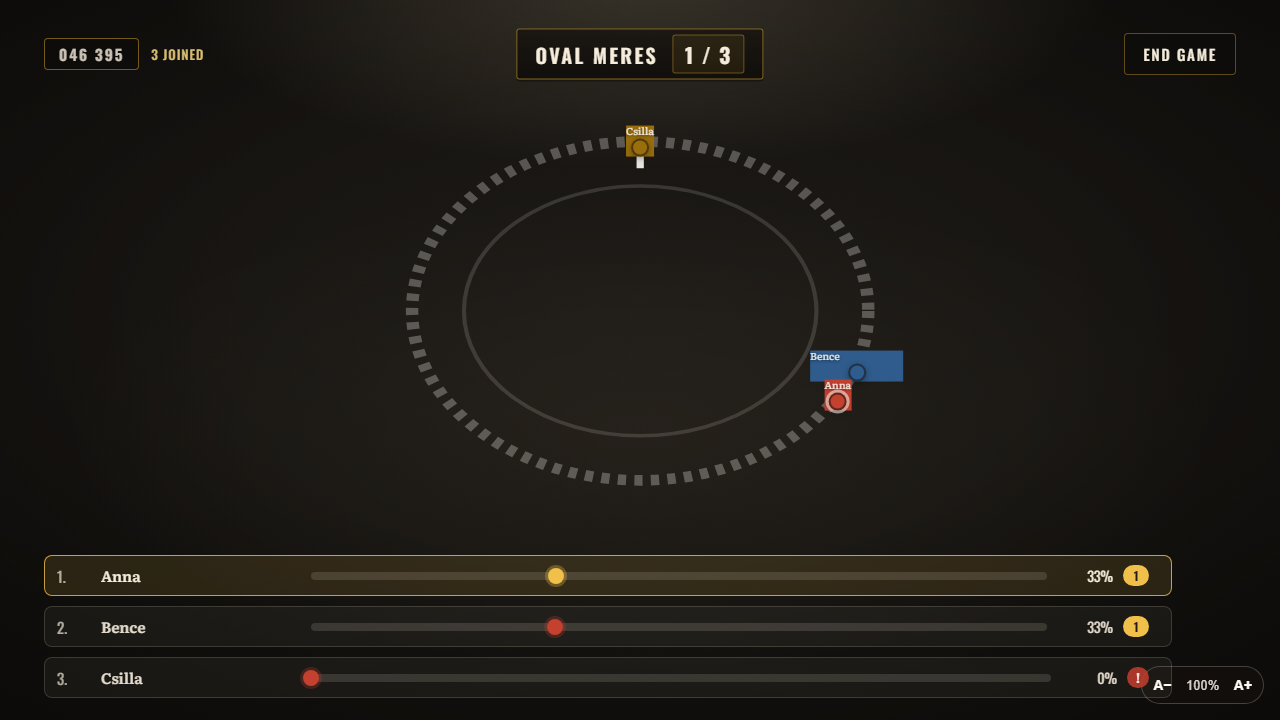
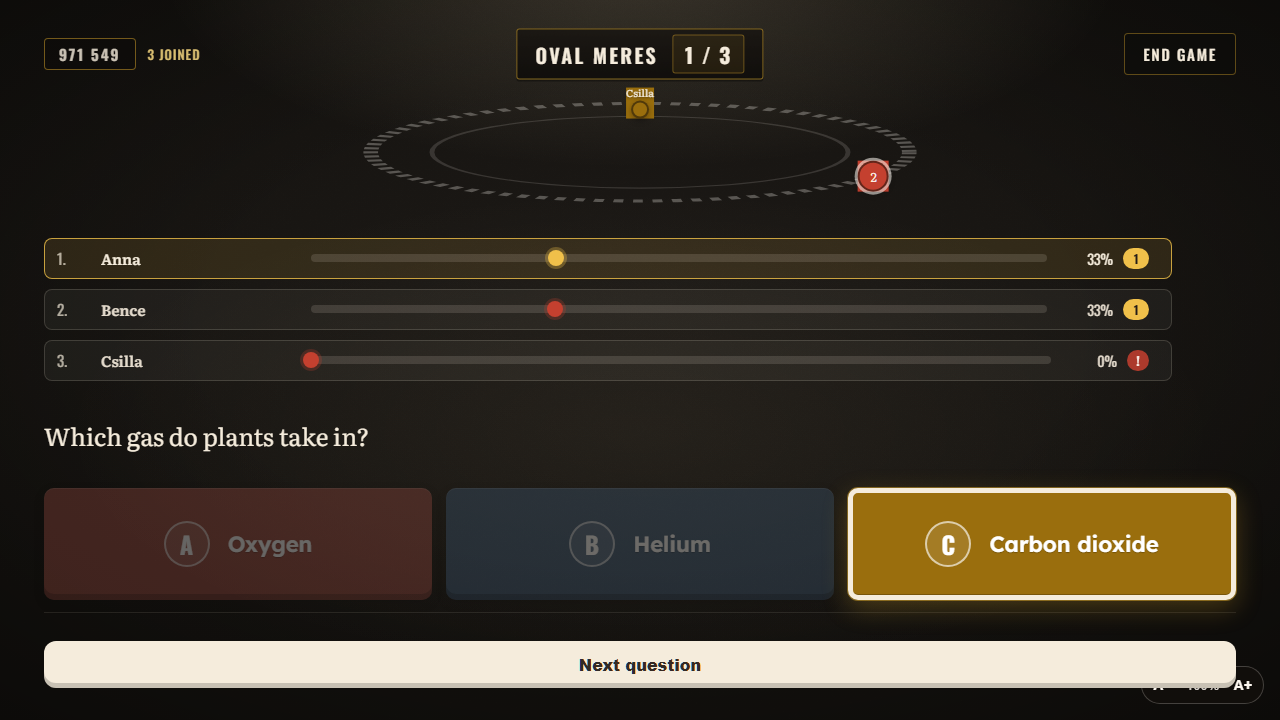
feat(race): lapos oval, csoportjelveny letszammal, dobogo es holtverseny a Grand Prix vegen (#tp43)

diff --git a/scripts/probe-oval.e2e.ts b/scripts/probe-oval.e2e.ts
@@ -101,34 +101,61 @@ test('a pálya képe három futóval', async ({ page, browser }) => {
 
   await page.screenshot({ path: 'race-oval.png' })
 
-  // Mérés: a pöttyök és a nevek nem csúszhatnak egymásra.
+  // Mérés: a jelvények nem csúszhatnak egymásra; a pálya nem túl magas.
   const boxes = await stage.locator('.gq-runner').evaluateAll((nodes) =>
     nodes.map((node) => {
       const dot = node.querySelector('.gq-runner-dot')!.getBoundingClientRect()
-      const name = node.querySelector('.gq-runner-name')!.getBoundingClientRect()
+      const name = node.querySelector('.gq-runner-name')
+      const label = name ? name.getBoundingClientRect() : dot
       return {
-        name: (node.querySelector('.gq-runner-name')?.textContent ?? '').trim(),
+        name: (node.textContent ?? '').trim() || '?',
+        count: node.getAttribute('data-count'),
         dot: { x: dot.x, y: dot.y, w: dot.width, h: dot.height },
-        label: { x: name.x, y: name.y, w: name.width, h: name.height },
+        label: { x: label.x, y: label.y, w: label.width, h: label.height },
       }
     }),
   )
-  const overlaps = (a: typeof boxes[number], b: typeof boxes[number]) =>
+  const overlaps = (a: { x: number; y: number; w: number; h: number }, b: typeof a) =>
     a.x < b.x + b.w && b.x < a.x + a.w && a.y < b.y + b.h && b.y < a.y + a.h
   const problems: string[] = []
   for (let i = 0; i < boxes.length; i += 1) {
     for (let j = i + 1; j < boxes.length; j += 1) {
-      const one = boxes[i]!
-      const other = boxes[j]!
-      if (overlaps(one.dot, other.dot)) problems.push(`pötty ütközik: ${one.name} / ${other.name}`)
-      if (overlaps(one.label, other.label)) problems.push(`név ütközik: ${one.name} / ${other.name}`)
+      if (overlaps(boxes[i]!.dot, boxes[j]!.dot)) problems.push(`jelvény ütközik: ${boxes[i]!.name} / ${boxes[j]!.name}`)
+      if (overlaps(boxes[i]!.label, boxes[j]!.label)) problems.push(`név ütközik: ${boxes[i]!.name} / ${boxes[j]!.name}`)
     }
   }
   for (const box of boxes) {
     console.log(
-      `${box.name}: pötty ${Math.round(box.dot.x)},${Math.round(box.dot.y)} név ${Math.round(box.label.x)},${Math.round(box.label.y)}`,
+      `jelvény ${box.name}${box.count ? ` (${box.count})` : ''}: ${Math.round(box.dot.x)},${Math.round(box.dot.y)}`,
     )
   }
+  const sizes = await page.evaluate(() => {
+    const oval = document.querySelector('.gq-oval')!.getBoundingClientRect()
+    const dialog = document.querySelector('.gq-stage, [role=dialog]')!.getBoundingClientRect()
+    return { oval: Math.round(oval.height), dialog: Math.round(dialog.height), ovalWidth: Math.round(oval.width) }
+  })
+  console.log(`pálya ${sizes.ovalWidth}x${sizes.oval} a színpad ${sizes.dialog} magas (${Math.round((sizes.oval / sizes.dialog) * 100)}%)`)
   console.log('ütközés:', problems.length === 0 ? 'nincs' : problems.join('; '))
+
+  // A lebegő szövegméret-pirula ne takarjon semmit a színpadon.
+  const cover = await page.evaluate(() => {
+    const pill = document.querySelector('[class*=text-size], .gq-text-size, [data-testid=text-size]')
+    const targets = Array.from(document.querySelectorAll('.gq-track, .gq-oval, .gq-prompt'))
+    if (!pill) return { pill: null, hits: [] as string[] }
+    const box = pill.getBoundingClientRect()
+    const hits = targets
+      .map((node) => ({
+        cls: (node.getAttribute('class') ?? '').split(' ')[0] ?? '',
+        overlap:
+          box.left < node.getBoundingClientRect().right &&
+          node.getBoundingClientRect().left < box.left + box.width &&
+          box.top < node.getBoundingClientRect().bottom &&
+          node.getBoundingClientRect().top < box.top + box.height,
+      }))
+      .filter((entry) => entry.overlap)
+      .map((entry) => entry.cls)
+    return { pill: `${Math.round(box.width)}x${Math.round(box.height)} @${Math.round(box.x)},${Math.round(box.y)}`, hits }
+  })
+  console.log('pirula:', cover.pill, 'takar:', cover.hits.length ? cover.hits.join(', ') : 'semmit')
   for (const phone of phones) await phone.close()
 })

diff --git a/src/game/race.ts b/src/game/race.ts
@@ -87,9 +87,20 @@ export function raceOf(session: ClassicSession): Racer[] {
     }
   })
 
-  return racers
-    .sort((a, b) => b.distance - a.distance || b.right - a.right || a.nickname.localeCompare(b.nickname))
-    .map((racer, index) => ({ ...racer, place: index + 1 }))
+  const sorted = racers.sort(
+    (a, b) => b.distance - a.distance || b.right - a.right || a.nickname.localeCompare(b.nickname),
+  )
+
+  // Holtverseny: azonos táv (és azonos jó válasz) azonos hely — a következő
+  // hely kimarad, ahogy a versenyeken szokás (1, 1, 3).
+  let place = 0
+  return sorted.map((racer, index) => {
+    const previous = sorted[index - 1]
+    const tied =
+      previous !== undefined && previous.distance === racer.distance && previous.right === racer.right
+    if (!tied) place = index + 1
+    return { ...racer, place }
+  })
 }
 
 function findAnswer(list: ClassicAnswer[] | undefined, playerId: string): ClassicAnswer | undefined {
@@ -101,7 +112,7 @@ export function raceFinished(session: ClassicSession): boolean {
   return session.phase === 'REPORT' || session.phase === 'ENDED'
 }
 
-/** Egy futó helye az ovál pályán, a pálya terének százalékában. */
+/** Egy jelvény a pályán: egy futó vagy egy egy helyen álló csoport. */
 export type TrackSpot = {
   id: string
   x: number
@@ -110,6 +121,8 @@ export type TrackSpot = {
   at: number
   /** Melyik sávban áll (0 = a vonalon, 1–2 = keresztirányban kifelé). */
   slot: number
+  /** A jelvényhez tartozó futók: egynél többnél a jelvényen létszám áll. */
+  racers: Racer[]
 }
 
 /**
@@ -120,16 +133,30 @@ export type TrackSpot = {
  * sávban), hogy a színpadon ne takarják egymást — ezért a hely nem tisztán
  * geometriai, hanem a mezőnyhöz igazodik.
  */
+/** Egy jelvényen legfeljebb ennyi futó fér el. */
+const CLUSTER_SIZE = 3
+
 export function trackPositions(racers: Racer[]): TrackSpot[] {
+  // Csoportosítás: a 4%-nál közelebb állók egy jelvényre kerülnek, legfeljebb
+  // hárman. A csoport a legjobb helyen álló futó távján ül.
+  const groups: Racer[][] = []
+  for (const racer of racers) {
+    const last = groups[groups.length - 1]
+    const anchor = last?.[0]
+    if (last && anchor && last.length < CLUSTER_SIZE && Math.abs(racer.distance - anchor.distance) < 4) {
+      last.push(racer)
+    } else {
+      groups.push([racer])
+    }
+  }
+
   let previous = Number.NEGATIVE_INFINITY
-  let cluster = 0
+  return groups.map((group, index) => {
+    const anchor = group[0]!
+    const cluster = Math.abs(anchor.distance - previous) < 4 ? index % 3 : 0
+    previous = anchor.distance
 
-  return racers.map((racer) => {
-    if (Math.abs(racer.distance - previous) < 4) cluster += 1
-    else cluster = 0
-    previous = racer.distance
-
-    const at = Math.max(0, Math.min(100, racer.distance)) / 100
+    const at = Math.max(0, Math.min(100, anchor.distance)) / 100
     const angle = at * Math.PI * 2 - Math.PI / 2
     // Keresztirány: a pálya érintőjére merőleges egységvektor. Egyedül álló
     // futó a vonalon marad; a holtversenyesek [0, −, +] sávba nyílnak.
@@ -137,11 +164,12 @@ export function trackPositions(racers: Racer[]): TrackSpot[] {
     const offset = [0, -7, 7][slot] ?? 0
 
     return {
-      id: racer.id,
+      id: anchor.id,
       x: 50 + 44 * Math.cos(angle) - Math.sin(angle) * offset,
-      y: 50 + 38 * Math.sin(angle) + Math.cos(angle) * offset,
-      at: racer.distance,
+      y: 38 * Math.sin(angle) + Math.cos(angle) * offset + 50,
+      at: anchor.distance,
       slot,
+      racers: group,
     }
   })
 }

diff --git a/src/game/mode-stages.tsx b/src/game/mode-stages.tsx
@@ -239,23 +239,26 @@ export function RaceStage({ title, onExit, engine, words, status, hint }: StageP
               <ellipse cx="50" cy="50" rx="34" ry="28" className="gq-oval-inner" />
               <line x1="50" y1="10" x2="50" y2="18" className="gq-oval-start" />
             </svg>
-            {trackPositions(racers).map((spot, index) => {
-              const racer = racers.find((one) => one.id === spot.id)
+            {trackPositions(racers).map((spot) => {
+              const anchor = spot.racers[0]
+              const many = spot.racers.length > 1
               return (
                 <span
                   key={spot.id}
                   className="gq-runner"
-                  data-lead={racer?.place === 1 ? 'yes' : undefined}
+                  data-lead={anchor?.place === 1 ? 'yes' : undefined}
                   data-slot={spot.slot}
+                  data-count={many ? spot.racers.length : undefined}
+                  title={spot.racers.map((one) => one.nickname).join(', ')}
                   style={{
                     left: `${spot.x}%`,
                     top: `${spot.y}%`,
-                    background: TINCTURES[index % TINCTURES.length],
-                    zIndex: 100 - (racer?.place ?? 99),
+                    background: TINCTURES[((anchor?.place ?? 1) - 1) % TINCTURES.length],
+                    zIndex: 100 - (anchor?.place ?? 99),
                   }}
                 >
-                  <span className="gq-runner-dot" />
-                  <span className="gq-runner-name">{racer?.nickname}</span>
+                  <span className="gq-runner-dot">{many ? spot.racers.length : ''}</span>
+                  {many ? null : <span className="gq-runner-name">{anchor?.nickname}</span>}
                 </span>
               )
             })}
@@ -288,6 +291,28 @@ export function RaceStage({ title, onExit, engine, words, status, hint }: StageP
         leader ? (
           <>
             <h2 className="gq-big">{t('game.race.winner', { name: leader.nickname })}</h2>
+            {/* Dobogó: a legjobb három, a holtversenyesek azonos fokon. */}
+            <ol className="gq-podium" aria-label={t('game.race.standings')}>
+              {[1, 0, 2].map((order) => {
+                const racer = racers[order]
+                if (!racer) return null
+                const tied = racers.filter((one) => one.place === racer.place).length > 1
+                return (
+                  <li
+                    key={racer.id}
+                    className="gq-podium-step"
+                    data-place={racer.place}
+                    data-tied={tied ? 'yes' : undefined}
+                  >
+                    <span className="gq-podium-name">{racer.nickname}</span>
+                    <span className="gq-podium-height">
+                      <span className="gq-podium-place">{racer.place}</span>
+                    </span>
+                    <span className="gq-podium-meters">{Math.round(racer.distance)}%</span>
+                  </li>
+                )
+              })}
+            </ol>
             <ol className="gq-track">
               {racers.slice(0, 3).map((racer) => (
                 <li key={racer.id} className="gq-lane" data-lead={racer.place === 1 ? 'yes' : undefined}>

diff --git a/src/game.css b/src/game.css
@@ -2058,3 +2058,92 @@ select.gq-input-small { text-align: center; }
     transition: none;
   }
 }
+
+/* Grand Prix: lapos ovál — a pálya ne vigye el a színpad magasságát. */
+.gq-oval {
+  --oval-height: min(34vh, 280px);
+  height: var(--oval-height);
+  width: min(100%, calc(var(--oval-height) * 2.5));
+  aspect-ratio: auto;
+}
+
+/* Csoportjelvény: név helyett létszám. */
+.gq-runner[data-count] .gq-runner-dot {
+  display: flex;
+  align-items: center;
+  justify-content: center;
+  width: clamp(22px, 2.4vw, 32px);
+  font-family: var(--gq-display, inherit);
+  font-size: calc(clamp(11px, 1vw, 15px) * var(--gq-text, 1));
+  color: rgb(255 250 243 / 0.96);
+  border-width: 2px;
+}
+
+/* Dobogó a futam végén: 2. – 1. – 3., a középső fok a legmagasabb. */
+.gq-podium {
+  display: flex;
+  align-items: flex-end;
+  justify-content: center;
+  gap: clamp(6px, 0.8vw, 12px);
+  margin: clamp(8px, 1.4vh, 18px) auto 0;
+  padding: 0;
+  list-style: none;
+}
+
+.gq-podium-step {
+  display: flex;
+  flex-direction: column;
+  align-items: center;
+  gap: 4px;
+  min-width: clamp(72px, 9vw, 130px);
+}
+
+.gq-podium-name {
+  font-family: var(--gq-display, inherit);
+  font-size: calc(clamp(11px, 1vw, 15px) * var(--gq-text, 1));
+  color: rgb(255 250 243 / 0.92);
+}
+
+.gq-podium-height {
+  display: flex;
+  align-items: flex-start;
+  justify-content: center;
+  width: 100%;
+  border-radius: 4px 4px 0 0;
+  background: linear-gradient(180deg, rgb(255 250 243 / 0.22), rgb(255 250 243 / 0.06));
+  border: 1px solid rgb(255 250 243 / 0.28);
+  border-bottom: none;
+}
+
+.gq-podium-step[data-place='1'] .gq-podium-height {
+  height: clamp(52px, 7vh, 96px);
+  background: linear-gradient(180deg, rgb(203 162 60 / 0.42), rgb(203 162 60 / 0.12));
+  border-color: rgb(203 162 60 / 0.6);
+}
+
+.gq-podium-step[data-place='2'] .gq-podium-height {
+  height: clamp(38px, 5vh, 70px);
+}
+
+.gq-podium-step[data-place='3'] .gq-podium-height {
+  height: clamp(28px, 3.6vh, 52px);
+}
+
+.gq-podium-place {
+  font-family: var(--gq-display, inherit);
+  font-size: calc(clamp(14px, 1.6vw, 24px) * var(--gq-text, 1));
+  padding-top: 4px;
+  color: rgb(255 250 243 / 0.9);
+}
+
+.gq-podium-step[data-tied='yes'] .gq-podium-place::after {
+  content: '=';
+  margin-left: 2px;
+  font-size: 0.7em;
+  opacity: 0.8;
+}
+
+.gq-podium-meters {
+  font-size: calc(clamp(9px, 0.8vw, 12px) * var(--gq-text, 1));
+  color: rgb(255 250 243 / 0.66);
+}

diff --git a/src/game/race.test.ts b/src/game/race.test.ts
@@ -79,6 +79,35 @@ describe('Grand Prix: táv a pont helyett', () => {
   })
 })
 
+describe('Grand Prix: holtverseny', () => {
+  test('azonos táv és azonos jó válasz azonos hely, a következő hely kimarad', () => {
+    // Mindkét játékos ugyanazt válaszolja ugyanannyi idő alatt: 1, 1.
+    const racers = raceOf(
+      session([
+        [
+          { playerId: 'p1', choice: 0, ms: 4000, at: 1 },
+          { playerId: 'p2', choice: 0, ms: 4000, at: 1 },
+        ],
+        [],
+      ] as never),
+    )
+    expect(racers.map((racer) => racer.place)).toEqual([1, 1])
+  })
+
+  test('ha csak az egyik ér célba, a helyek 1 és 2', () => {
+    const racers = raceOf(
+      session([
+        [
+          { playerId: 'p1', choice: 0, ms: 4000, at: 1 },
+          { playerId: 'p2', choice: 1, ms: 4000, at: 1 },
+        ],
+        [],
+      ] as never),
+    )
+    expect(racers.map((racer) => racer.place)).toEqual([1, 2])
+  })
+})
+
 describe('Grand Prix: egy pálya, a hely a mezőnyhöz igazodik', () => {
   const racer = (id: string, distance: number) => ({
     id,
@@ -108,11 +137,19 @@ describe('Grand Prix: egy pálya, a hely a mezőnyhöz igazodik', () => {
     expect(three!.x).toBeCloseTo(6, 0)
   })
 
-  test('a holtversenyben állók keresztirányban szétnyílnak', () => {
+  test('az egy helyen állók egy jelvényre kerülnek, létszámmal', () => {
     const spots = trackPositions([racer('a', 30), racer('b', 30), racer('c', 31)])
-    expect(spots).toHaveLength(3)
+    expect(spots).toHaveLength(1)
+    expect(spots[0]!.racers.map((one) => one.id)).toEqual(['a', 'b', 'c'])
+  })
+
+  test('egy jelvényen legfeljebb hárman állnak, a többi külön jelvény', () => {
+    const spots = trackPositions([40, 40, 40, 41, 41].map((at, index) => racer(`r${index}`, at)))
+    expect(spots).toHaveLength(2)
+    expect(spots[0]!.racers).toHaveLength(3)
+    expect(spots[1]!.racers).toHaveLength(2)
     const xs = new Set(spots.map((spot) => Math.round(spot.x * 10)))
-    expect(xs.size).toBeGreaterThan(1)
+    expect(xs.size).toBe(2)
   })
 
   test('minden futó a pálya terén belül marad', () => {

diff --git a/scripts/mode-race-boss.e2e.ts b/scripts/mode-race-boss.e2e.ts
@@ -121,6 +121,10 @@ test('a Grand Prix a helyes válaszért távot ad, a végén győztest hirdet', 
   await stage.getByRole('button', { name: 'Finish' }).click()
 
   await expect(stage.getByText('Winner: Panni')).toBeVisible()
+  // Dobogó: a futam végén fokokkal, nem csak szöveggel.
+  await expect(stage.locator('.gq-podium')).toBeVisible()
+  await expect(stage.locator('.gq-podium-step')).toHaveCount(1)
+  await expect(stage.locator('.gq-podium-step').first()).toHaveAttribute('data-place', '1')
   const result = stage.locator('.gq-lane-meters').first()
   expect(Number((await result.innerText()).replace('%', ''))).toBeGreaterThan(
     Number(halfway.replace('%', '')),
